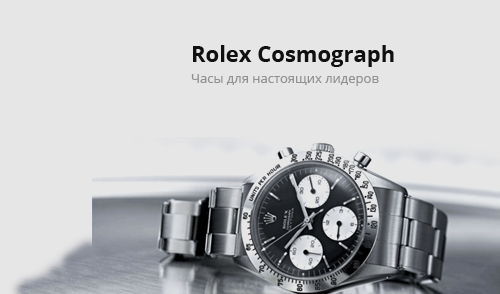
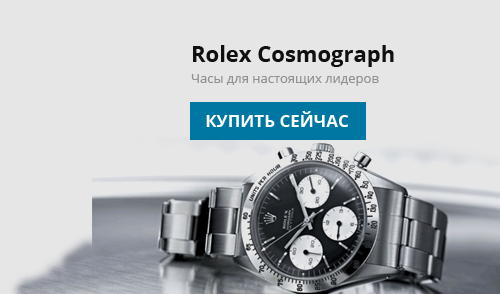
menu

Changed region(s): [[0.36, 0.3367, 0.75, 0.4898]]

diff --git a/src/index.html b/src/index.html
@@ -94,7 +94,60 @@
 						<div class="row">
 							<div class="col-md-11">
 								<ul class="watch-list">
-									<li class="watch-list__item"><a class="watch-list__link" href="javascript:void(0);">Наручные часы</a></li>
+									<li class="watch-list__item">
+										<div class="mega-menu">
+											<div class="mega-menu__holder">
+												<div class="mega-menu__inner ">
+												<p class="mega-menu__title">Страна</p>
+													<ul class="">
+														<li><a href="javascript:void(0);">Швейцария</a></li>
+														<li><a href="javascript:void(0);">США</a></li>
+														<li><a href="javascript:void(0);">Италия</a></li>
+														<li><a href="javascript:void(0);">Германия</a></li>
+														<li><a href="javascript:void(0);">Япония</a></li>
+														<li><a href="javascript:void(0);">Австрия</a></li>
+														<li><a href="javascript:void(0);">Франция</a></li>
+													</ul>
+												</div>
+												<div class="mega-menu__inner ">
+												<p class="mega-menu__title">Ключевые бренды</p>
+													<ul class="">
+														<li><a href="javascript:void(0);">patek philippe</a></li>
+														<li><a href="javascript:void(0);">audemars piguet</a></li>
+														<li><a href="javascript:void(0);">jaeger-le coultre</a></li>
+														<li><a href="javascript:void(0);">vacheron constantin</a></li>
+														<li><a href="javascript:void(0);">franck muller</a></li>
+														<li><a href="javascript:void(0);">ulysse nardin</a></li>
+														<li><a href="javascript:void(0);">jaquet droz</a></li>
+													</ul>
+												</div>
+												<div class="mega-menu__inner">	
+												<p class="mega-menu__title">Стили</p>
+													<ul class="">
+														<li><a href="javascript:void(0);">Повседневные</a></li>
+														<li><a href="javascript:void(0);">Классические</a></li>
+														<li><a href="javascript:void(0);">Дизайнерские</a></li>
+														<li><a href="javascript:void(0);">Спортивные</a></li>
+														<li><a href="javascript:void(0);">Военные</a></li>
+														<li><a href="javascript:void(0);">Хипстерские</a></li>
+														<li><a href="javascript:void(0);">Юбилейные</a></li>
+													</ul>
+												</div>
+												<div class="mega-menu__inner">	
+												<p class="mega-menu__title">Корпус</p>
+													<ul class="">
+														<li><a href="javascript:void(0);">Золотые</a></li>
+														<li><a href="javascript:void(0);">Серебряные</a></li>
+														<li><a href="javascript:void(0);">Титановые</a></li>
+														<li><a href="javascript:void(0);">Керамические</a></li>
+														<li><a href="javascript:void(0);">Металлические</a></li>
+														<li><a href="javascript:void(0);">Пластиковые</a></li>
+														<li><a href="javascript:void(0);">ip86 защита</a></li>
+													</ul>
+												</div>
+											</div>			
+										</div>	
+									<a class="watch-list__link" href="javascript:void(0);">Наручные часы</a></li>
 									<li class="watch-list__item"><a class="watch-list__link" href="javascript:void(0);">Карманные часы</a></li>
 									<li class="watch-list__item"><a class="watch-list__link" href="javascript:void(0);">Интерьерные часы и барометры</a></li>
 									<li class="watch-list__item"><a class="watch-list__link" href="javascript:void(0);">Точные приборы</a></li>
@@ -150,7 +203,7 @@
 				<div class="col-md-5">
 					<div class="main-2-left">
 						<a class="total-link" href="javascript:void(0);"><img src="img/main2-bg.png" alt=""></a>
-						<a class="main-2-left__link" href="javascript:void(0);">Купить сейчас</a>
+						<!-- <a class="main-2-left__link" href="javascript:void(0);">Купить сейчас</a> -->
 					</div>
 				</div>
 				<div class="col-md-2 ">
@@ -159,7 +212,7 @@
 				<div class="col-md-5">
 					<div class="holder-main2-right">
 						<a href="javascript:void(0);"><img class="main-2-bg-right" src="img/main2-bg-right.png" alt=""></a>
-						<a class="main-2-bg-right__link" href="javascript:void(0);">Купить сейчас</a>
+						<!-- <a class="main-2-bg-right__link" href="javascript:void(0);">Купить сейчас</a> -->
 					</div>	
 				</div>
 			</div>

diff --git a/src/sass/style.scss b/src/sass/style.scss
@@ -358,13 +358,14 @@ html, body{
 	.header-bot{
 		border: 1px solid #e1e2e4;
 		border-width: 1px 0;
-		padding: 25px 0;
+		// padding: 25px 0;
 		
 		.watch-list{
 			display: flex;
     		justify-content: space-between;
     		&__item{
 				position: relative;
+				padding: 26px 0;
 				&:after{
 					content: "";
 					position: absolute;
@@ -372,25 +373,82 @@ html, body{
 					width: 8px;
 					height: 4px;
 					right: -15px;
-    				top: 8px;
+    				top: 33px;
 				}
+				&:hover .mega-menu{
+					left: 0;
+					cursor: pointer;
+				}
+				&:hover{
+    				border-top: 1px solid #0077a2;
+    				color: #000;
+    			}
+    		}
+    		.mega-menu{
+    			 position: absolute;
+    			left: -9999px;
+    			z-index: 10;
+
+    			&__holder{
+    				border-top: 1px solid #0077a2;
+    				margin-top: 44px;
+    				background: #f3f3f3;
+				    display: flex;
+				    justify-content: space-between;
+				    padding: 0 30px 30px;
+				    width: 1200px;
+				    max-width: 100%;
+					ul{
+						padding-top: 15px;
+						list-style-type: square;
+						li{
+							color: #8d8d8d;
+							padding: 5px 0;
+							&:hover{
+								border: 1px solid #0077a2;
+								border-width: 1px 0;
+								color: #0077a2;
+
+							}
+							a{
+								display: block;
+								text-transform: uppercase;
+								color: #525252;
+								font-family: "pt_sans_regular";
+								&:hover{
+									color: #0077a2;
+								}
+								
+							}
+								
+						}
+					}
+    			}
+    			&__title{
+    				margin-top:30px;
+    				color: #525252;
+    				font-family: "RobotoCondensed-Regular";
+    				text-transform: uppercase;
+    			}
+
+    			
+    			
     		}
     		&__link{
     			text-decoration: none;
     			color: #aeaeae;
     			font-family: "RobotoCondensed-Regular";
     			text-transform: uppercase;
-
-    			&:hover{
-    				color: #000000;
-    				border-top: 1px solid #0077a2;
-    				padding-top: 26px;
-    			}
+				&:hover{
+					color: #000 ;
+				}	
+    		
     		}
 		}
 		.search{
 			display: flex;
     		justify-content: flex-end;
+    		    margin-top: 25px;
 		}
 	}
 	.popup-search{
@@ -537,22 +595,22 @@ html, body{
 			  }
 			}
 		}
-		&__link{
-			position: absolute;
-			top: 55%;
-    		left: 9%;
-			display: block;
-			color: #fff;
-			background: #0077a2;
-			text-transform: uppercase;
-			font-size: 17px;
-			padding: 10px;
-			text-decoration: none;
-			font-family: "OpenSansBold";
-			&:hover{
-				 background: #0092c7; 
-			}
-		}
+		// &__link{
+		// 	position: absolute;
+		// 	top: 55%;
+  //   		left: 9%;
+		// 	display: block;
+		// 	color: #fff;
+		// 	background: #0077a2;
+		// 	text-transform: uppercase;
+		// 	font-size: 17px;
+		// 	padding: 10px;
+		// 	text-decoration: none;
+		// 	font-family: "OpenSansBold";
+		// 	&:hover{
+		// 		 background: #0092c7; 
+		// 	}
+		// }
 	}
 	.main-2-bg-center{
 		position: relative;
@@ -576,22 +634,22 @@ html, body{
 				  transition:  5.4s ease;
 				  transform: scale(1.3);
 			  }
-		&__link{
-			position: absolute;
-			top: 36%;
-    		left: 39%;
-			display: block;
-			color: #fff;
-			background: #0077a2;
-			text-transform: uppercase;
-			font-size: 17px;
-			padding: 10px;
-			text-decoration: none;
-			font-family: "OpenSansBold";
-			&:hover{
-				 background: #0092c7; 
-			}
-		}
+		// &__link{
+		// 	position: absolute;
+		// 	top: 36%;
+  //   		left: 39%;
+		// 	display: block;
+		// 	color: #fff;
+		// 	background: #0077a2;
+		// 	text-transform: uppercase;
+		// 	font-size: 17px;
+		// 	padding: 10px;
+		// 	text-decoration: none;
+		// 	font-family: "OpenSansBold";
+		// 	&:hover{
+		// 		 background: #0092c7; 
+		// 	}
+		// }
 	}
 	}
 	

diff --git a/src/js/script.js b/src/js/script.js
@@ -7,6 +7,8 @@ $(function(){
 		popupSearch.toggleClass("db");
 	});
 
+	
+
 
 	var cart = $(".cart"),
 		quickCart = $(".quickcart");
